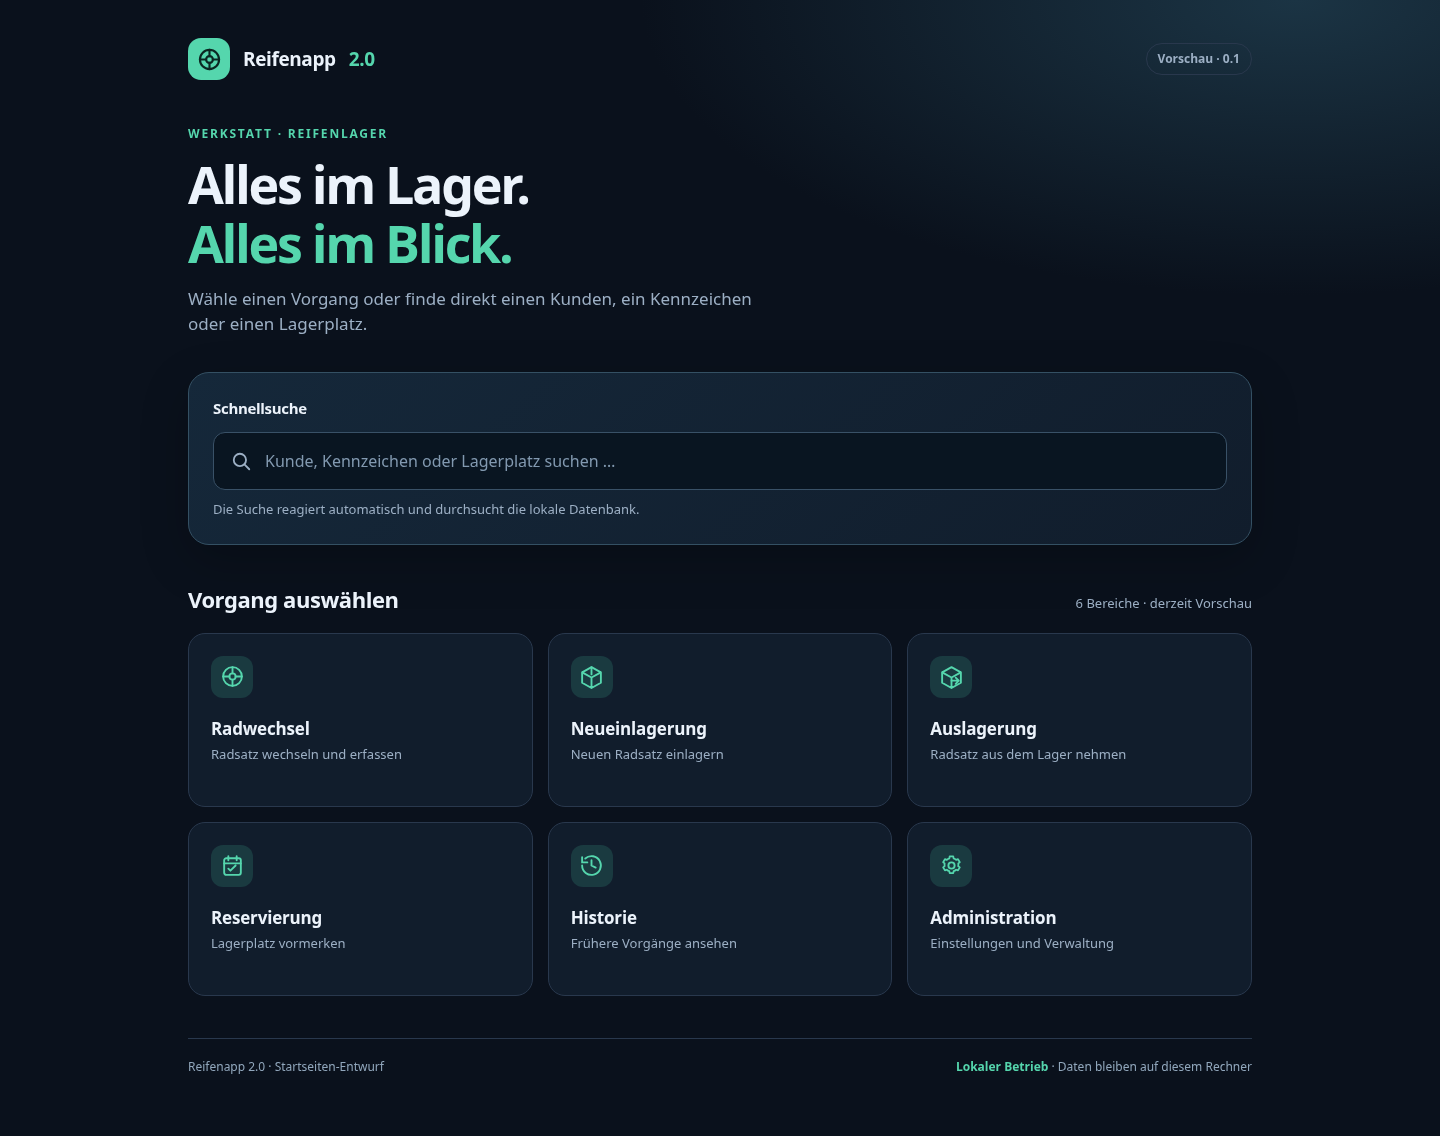
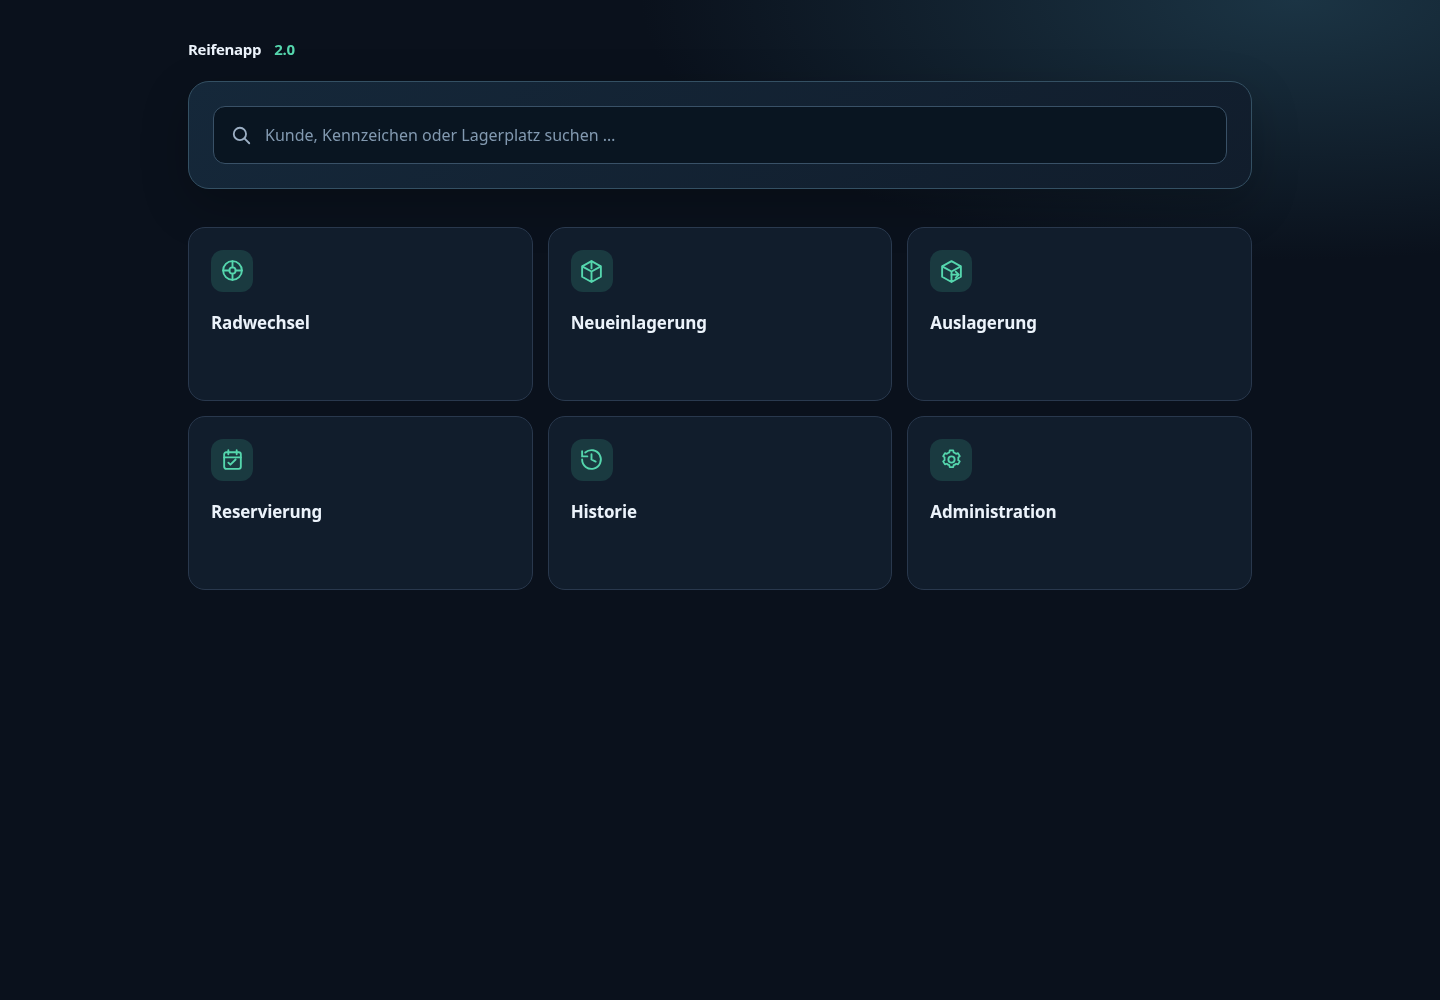
style: simplify homepage to branding search and actions

diff --git a/web/index.html b/web/index.html
@@ -7,7 +7,7 @@
   <title>Reifenapp 2.0 – Startseite</title>
   <style>
     :root{color-scheme:dark;--bg:#0a111c;--surface:#111d2c;--surface2:#17263a;--line:#29384d;--text:#ecf3fb;--muted:#9cafc4;--accent:#55d6ad;--accent2:#9ef1d2;--shadow:0 16px 48px rgba(0,0,0,.22)}
-    *{box-sizing:border-box}body{margin:0;background:radial-gradient(ellipse 70% 40% at 90% 0%,#1b3444 0%,transparent 65%),var(--bg);color:var(--text);font:16px/1.5 system-ui,-apple-system,BlinkMacSystemFont,"Segoe UI",sans-serif;min-height:100vh}button,input{font:inherit}button{cursor:pointer}button:focus-visible,input:focus-visible{outline:3px solid var(--accent);outline-offset:3px}main{max-width:1120px;margin:0 auto;padding:38px 28px 60px}.top{display:flex;align-items:center;justify-content:space-between;gap:20px;margin-bottom:45px}.brand{display:flex;align-items:center;gap:13px;font-weight:800;font-size:19px;letter-spacing:-.02em}.logo{width:42px;height:42px;border-radius:13px;background:var(--accent);display:grid;place-items:center;color:#0b2722}.version{font-size:12px;font-weight:700;padding:6px 11px;color:var(--muted);border:1px solid var(--line);border-radius:100px}.eyebrow{font-size:12px;font-weight:800;letter-spacing:.15em;text-transform:uppercase;color:var(--accent);margin:0 0 12px}h1{font-size:clamp(32px,5vw,52px);line-height:1.13;letter-spacing:-.045em;margin:0 0 13px}h1 span{color:var(--accent)}.intro{font-size:17px;color:var(--muted);margin:0 0 35px;max-width:590px}.search-panel{background:linear-gradient(140deg,#15283a,#111d2c);border:1px solid #345063;border-radius:21px;padding:24px;box-shadow:var(--shadow);margin-bottom:38px}.section-label{font-size:15px;font-weight:750;margin:0 0 13px}.searchbox{position:relative}.searchbox svg{position:absolute;left:17px;top:50%;transform:translateY(-50%);color:var(--muted);pointer-events:none}.searchbox input{width:100%;height:58px;background:#091521;border:1px solid #395167;border-radius:12px;color:var(--text);padding:0 18px 0 51px;outline:none}.searchbox input:focus{border-color:var(--accent);box-shadow:0 0 0 3px rgba(85,214,173,.12)}.searchbox input::placeholder{color:#8299b0}.hint{margin:10px 0 0;color:var(--muted);font-size:13px}.results{margin-top:18px;display:none}.results.active{display:block}.result-head{display:flex;justify-content:space-between;gap:15px;align-items:center;margin-bottom:10px;color:var(--muted);font-size:13px}.result-list{display:grid;gap:9px}.result{display:flex;align-items:center;justify-content:space-between;gap:12px;border:1px solid var(--line);border-radius:12px;background:#102033;padding:13px 15px}.result strong{font-size:15px}.result small{display:block;color:var(--muted);font-size:13px;margin-top:3px}.place{font-weight:800;white-space:nowrap;background:#1a413f;color:var(--accent2);padding:7px 11px;border-radius:9px}.empty{color:var(--muted);font-size:14px;margin:0}.heading-row{display:flex;align-items:baseline;justify-content:space-between;gap:14px;margin-bottom:17px}h2{font-size:22px;letter-spacing:-.02em;margin:0}.subtle{color:var(--muted);font-size:13px}.actions{display:grid;grid-template-columns:repeat(3,minmax(0,1fr));gap:15px}.action{display:flex;flex-direction:column;text-align:left;align-items:flex-start;min-height:174px;padding:22px;border-radius:17px;background:var(--surface);border:1px solid var(--line);color:var(--text);transition:transform .15s,border-color .15s,background .15s}.action:hover{background:var(--surface2);border-color:#57778d;transform:translateY(-2px)}.action .iconwrap{width:42px;height:42px;display:grid;place-items:center;border-radius:12px;background:#1a3a40;color:var(--accent);margin-bottom:18px}.action strong{font-size:17px;letter-spacing:-.01em}.action small{margin-top:4px;font-size:13px;color:var(--muted)}.footer{border-top:1px solid var(--line);margin-top:42px;padding-top:19px;display:flex;justify-content:space-between;gap:12px;color:#91a7bc;font-size:12px}.footer b{font-weight:600;color:var(--accent)}dialog{border:1px solid #40566a;border-radius:20px;background:#152439;color:var(--text);padding:28px;max-width:410px;width:calc(100% - 40px);box-shadow:0 35px 80px #0009}dialog::backdrop{background:#050a12bc}dialog h3{margin:0 0 10px;font-size:24px}dialog p{color:var(--muted);margin:0 0 23px}dialog button{border:0;border-radius:10px;background:var(--accent);color:#06251a;font-weight:800;padding:11px 20px}@media(max-width:800px){.actions{grid-template-columns:repeat(2,minmax(0,1fr))}}@media(max-width:520px){main{padding:24px 16px 36px}.top{margin-bottom:34px}.search-panel{padding:17px}.actions{gap:10px}.action{padding:16px;min-height:161px}.action strong{font-size:15px}.action small{font-size:12px}.heading-row{align-items:flex-start;flex-direction:column;gap:4px}.footer{flex-direction:column}}
+    *{box-sizing:border-box}body{margin:0;background:radial-gradient(ellipse 70% 40% at 90% 0%,#1b3444 0%,transparent 65%),var(--bg);color:var(--text);font:16px/1.5 system-ui,-apple-system,BlinkMacSystemFont,"Segoe UI",sans-serif;min-height:100vh}button,input{font:inherit}button{cursor:pointer}button:focus-visible,input:focus-visible{outline:3px solid var(--accent);outline-offset:3px}main{max-width:1120px;margin:0 auto;padding:38px 28px 60px}.top{display:flex;align-items:center;justify-content:space-between;gap:20px;margin-bottom:20px}.brand{display:flex;align-items:center;gap:13px;font-weight:700;font-size:15px;letter-spacing:-.02em}.search-panel{background:linear-gradient(140deg,#15283a,#111d2c);border:1px solid #345063;border-radius:21px;padding:24px;box-shadow:var(--shadow);margin-bottom:38px}.searchbox{position:relative}.searchbox svg{position:absolute;left:17px;top:50%;transform:translateY(-50%);color:var(--muted);pointer-events:none}.searchbox input{width:100%;height:58px;background:#091521;border:1px solid #395167;border-radius:12px;color:var(--text);padding:0 18px 0 51px;outline:none}.searchbox input:focus{border-color:var(--accent);box-shadow:0 0 0 3px rgba(85,214,173,.12)}.searchbox input::placeholder{color:#8299b0}.hint{margin:10px 0 0;color:var(--muted);font-size:13px}.results{margin-top:18px;display:none}.results.active{display:block}.result-head{display:flex;justify-content:space-between;gap:15px;align-items:center;margin-bottom:10px;color:var(--muted);font-size:13px}.result-list{display:grid;gap:9px}.result{display:flex;align-items:center;justify-content:space-between;gap:12px;border:1px solid var(--line);border-radius:12px;background:#102033;padding:13px 15px}.result strong{font-size:15px}.result small{display:block;color:var(--muted);font-size:13px;margin-top:3px}.place{font-weight:800;white-space:nowrap;background:#1a413f;color:var(--accent2);padding:7px 11px;border-radius:9px}.empty{color:var(--muted);font-size:14px;margin:0}h2{font-size:22px;letter-spacing:-.02em;margin:0}.actions{display:grid;grid-template-columns:repeat(3,minmax(0,1fr));gap:15px}.action{display:flex;flex-direction:column;text-align:left;align-items:flex-start;min-height:174px;padding:22px;border-radius:17px;background:var(--surface);border:1px solid var(--line);color:var(--text);transition:transform .15s,border-color .15s,background .15s}.action:hover{background:var(--surface2);border-color:#57778d;transform:translateY(-2px)}.action .iconwrap{width:42px;height:42px;display:grid;place-items:center;border-radius:12px;background:#1a3a40;color:var(--accent);margin-bottom:18px}.action strong{font-size:17px;letter-spacing:-.01em}dialog{border:1px solid #40566a;border-radius:20px;background:#152439;color:var(--text);padding:28px;max-width:410px;width:calc(100% - 40px);box-shadow:0 35px 80px #0009}dialog::backdrop{background:#050a12bc}dialog h3{margin:0 0 10px;font-size:24px}dialog p{color:var(--muted);margin:0 0 23px}dialog button{border:0;border-radius:10px;background:var(--accent);color:#06251a;font-weight:800;padding:11px 20px}@media(max-width:800px){.actions{grid-template-columns:repeat(2,minmax(0,1fr))}}@media(max-width:520px){main{padding:24px 16px 36px}.top{margin-bottom:20px}.search-panel{padding:17px}.actions{gap:10px}.action{padding:16px;min-height:161px}.action strong{font-size:15px}}
 
     .result.search-result{display:block;min-width:0}.result-summary{display:flex;align-items:flex-start;justify-content:space-between;gap:12px}.result-info{min-width:0;overflow-wrap:anywhere}.result-info a{display:inline-block;margin-top:6px;color:var(--accent);font-size:13px}.search-result .place{max-width:45%;white-space:normal;overflow-wrap:anywhere}.result-warnings{display:grid;gap:7px;margin-top:12px}.result-warning{display:flex;align-items:flex-start;gap:9px;margin:0;padding:9px 11px;border:1px solid #a7782f;border-radius:8px;background:#382b19;color:#ffcf7b;font-size:13px;overflow-wrap:anywhere;white-space:pre-wrap}.result-warning svg{flex:none;margin-top:1px}.result-warning span{min-width:0}.result-details{margin-top:12px;border-top:1px solid var(--line);padding-top:9px}.result-details summary{display:flex;align-items:center;justify-content:space-between;gap:12px;cursor:pointer;list-style:none;color:var(--accent);font-size:13px;font-weight:650}.result-details summary::-webkit-details-marker{display:none}.result-details summary:focus-visible{outline:2px solid var(--accent);outline-offset:4px;border-radius:3px}.result-chevron{display:inline-block;font-size:23px;line-height:1;transition:transform .15s}.result-details[open] .result-chevron{transform:rotate(180deg)}.result-data{display:grid;grid-template-columns:repeat(2,minmax(0,1fr));gap:12px 20px;margin:14px 0 0}.result-data>div{min-width:0}.result-data dt{color:var(--muted);font-size:12px}.result-data dd{margin:3px 0 0;font-size:13px;white-space:pre-wrap;overflow-wrap:anywhere}@media(max-width:520px){.result-data{grid-template-columns:1fr}}
   </style>
@@ -15,18 +15,16 @@
 </head>
 <body>
 <main>
-  <header class="top"><div class="brand"><div class="logo" aria-hidden="true"><svg viewBox="0 0 24 24" width="27" height="27" fill="none" stroke="currentColor" stroke-width="1.9" stroke-linecap="round"><circle cx="12" cy="12" r="8.5"/><circle cx="12" cy="12" r="3"/><path d="M12 3.5v5.5M20.5 12H15M12 20.5V15M3.5 12H9"/></svg></div>Reifenapp <span style="color:var(--accent)">2.0</span></div><div class="version">Vorschau · 0.1</div></header>
-  <section aria-labelledby="welcome"><p class="eyebrow">Werkstatt · Reifenlager</p><h1 id="welcome">Alles im Lager.<br><span>Alles im Blick.</span></h1><p class="intro">Wähle einen Vorgang oder finde direkt einen Kunden, ein Kennzeichen oder einen Lagerplatz.</p></section>
-  <section class="search-panel" aria-labelledby="search-title"><h2 class="section-label" id="search-title">Schnellsuche</h2><div class="searchbox"><svg width="22" height="22" viewBox="0 0 24 24" fill="none" stroke="currentColor" stroke-width="2" stroke-linecap="round" aria-hidden="true"><circle cx="10.8" cy="10.8" r="6.7"/><path d="m16 16 5 5"/></svg><input id="search" type="search" autocomplete="off" spellcheck="false" placeholder="Kunde, Kennzeichen oder Lagerplatz suchen …" aria-label="Kunde, Kennzeichen oder Lagerplatz suchen" aria-controls="results"></div><p class="hint">Die Suche reagiert automatisch und durchsucht die lokale Datenbank.</p><div id="results" class="results" aria-live="polite"><div class="result-head"><span id="count"></span><span>Neueste Aktivität zuerst</span></div><div id="result-list" class="result-list"></div></div></section>
-  <section aria-labelledby="action-title"><div class="heading-row"><h2 id="action-title">Vorgang auswählen</h2><span class="subtle">6 Bereiche · derzeit Vorschau</span></div><div class="actions">
-    <button class="action" data-title="Radwechsel"><span class="iconwrap"><svg width="25" height="25" viewBox="0 0 24 24" fill="none" stroke="currentColor" stroke-width="1.8" stroke-linecap="round"><circle cx="12" cy="12" r="9"/><circle cx="12" cy="12" r="3"/><path d="M12 3v6m9 3h-6m-3 9v-6m-9-3h6"/></svg></span><strong>Radwechsel</strong><small>Radsatz wechseln und erfassen</small></button>
-    <button class="action" data-title="Neueinlagerung"><span class="iconwrap"><svg width="25" height="25" viewBox="0 0 24 24" fill="none" stroke="currentColor" stroke-width="1.8" stroke-linecap="round" stroke-linejoin="round"><path d="m3 8 9-5 9 5v10l-9 5-9-5zM3 8l9 5 9-5M12 13v10"/><path d="M12 3v7"/></svg></span><strong>Neueinlagerung</strong><small>Neuen Radsatz einlagern</small></button>
-    <button class="action" data-title="Auslagerung"><span class="iconwrap"><svg width="25" height="25" viewBox="0 0 24 24" fill="none" stroke="currentColor" stroke-width="1.8" stroke-linecap="round" stroke-linejoin="round"><path d="M3 8 12 3l9 5v10l-9 5-9-5V8m0 0 9 5 9-5M12 13v10"/><path d="m16 13 3 3-3 3m3-3h-7"/></svg></span><strong>Auslagerung</strong><small>Radsatz aus dem Lager nehmen</small></button>
-    <button class="action" data-title="Reservierung"><span class="iconwrap"><svg width="25" height="25" viewBox="0 0 24 24" fill="none" stroke="currentColor" stroke-width="1.8" stroke-linecap="round" stroke-linejoin="round"><rect x="4" y="5" width="16" height="16" rx="2"/><path d="M8 3v4m8-4v4M4 10h16m-12 5 2 2 5-5"/></svg></span><strong>Reservierung</strong><small>Lagerplatz vormerken</small></button>
-    <button class="action" data-title="Historie"><span class="iconwrap"><svg width="25" height="25" viewBox="0 0 24 24" fill="none" stroke="currentColor" stroke-width="1.8" stroke-linecap="round"><path d="M3 12a9 9 0 1 0 3-6.7M3 4v5h5M12 7v5l4 2"/></svg></span><strong>Historie</strong><small>Frühere Vorgänge ansehen</small></button>
-    <button class="action" data-title="Administration"><span class="iconwrap"><svg width="25" height="25" viewBox="0 0 24 24" fill="none" stroke="currentColor" stroke-width="1.8" stroke-linecap="round" stroke-linejoin="round"><circle cx="12" cy="12" r="3"/><path d="m19.4 15 .1.1 1.5 1.2-1.8 3.1-1.9-.7a8 8 0 0 1-2.5 1.4l-.4 2h-3.6l-.4-2a8 8 0 0 1-2.5-1.4l-1.9.7-1.8-3.1 1.5-1.2a8 8 0 0 1 0-2.8l-1.5-1.2L6 8l1.9.7a8 8 0 0 1 2.5-1.4l.4-2h3.6l.4 2a8 8 0 0 1 2.5 1.4l1.9-.7 1.8 3.1-1.5 1.2a8 8 0 0 1-.1 2.7" transform="translate(0 -1.7) scale(.95)"/></svg></span><strong>Administration</strong><small>Einstellungen und Verwaltung</small></button>
+  <header class="top"><span class="brand">Reifenapp <span style="color:var(--accent)">2.0</span></span></header>
+  <section class="search-panel" aria-label="Schnellsuche"><div class="searchbox"><svg width="22" height="22" viewBox="0 0 24 24" fill="none" stroke="currentColor" stroke-width="2" stroke-linecap="round" aria-hidden="true"><circle cx="10.8" cy="10.8" r="6.7"/><path d="m16 16 5 5"/></svg><input id="search" type="search" autocomplete="off" spellcheck="false" placeholder="Kunde, Kennzeichen oder Lagerplatz suchen …" aria-label="Kunde, Kennzeichen oder Lagerplatz suchen" aria-controls="results"></div><div id="results" class="results" aria-live="polite"><div class="result-head"><span id="count"></span></div><div id="result-list" class="result-list"></div></div></section>
+  <section aria-label="Vorgänge"><div class="actions">
+    <button class="action" data-title="Radwechsel"><span class="iconwrap"><svg width="25" height="25" viewBox="0 0 24 24" fill="none" stroke="currentColor" stroke-width="1.8" stroke-linecap="round"><circle cx="12" cy="12" r="9"/><circle cx="12" cy="12" r="3"/><path d="M12 3v6m9 3h-6m-3 9v-6m-9-3h6"/></svg></span><strong>Radwechsel</strong></button>
+    <button class="action" data-title="Neueinlagerung"><span class="iconwrap"><svg width="25" height="25" viewBox="0 0 24 24" fill="none" stroke="currentColor" stroke-width="1.8" stroke-linecap="round" stroke-linejoin="round"><path d="m3 8 9-5 9 5v10l-9 5-9-5zM3 8l9 5 9-5M12 13v10"/><path d="M12 3v7"/></svg></span><strong>Neueinlagerung</strong></button>
+    <button class="action" data-title="Auslagerung"><span class="iconwrap"><svg width="25" height="25" viewBox="0 0 24 24" fill="none" stroke="currentColor" stroke-width="1.8" stroke-linecap="round" stroke-linejoin="round"><path d="M3 8 12 3l9 5v10l-9 5-9-5V8m0 0 9 5 9-5M12 13v10"/><path d="m16 13 3 3-3 3m3-3h-7"/></svg></span><strong>Auslagerung</strong></button>
+    <button class="action" data-title="Reservierung"><span class="iconwrap"><svg width="25" height="25" viewBox="0 0 24 24" fill="none" stroke="currentColor" stroke-width="1.8" stroke-linecap="round" stroke-linejoin="round"><rect x="4" y="5" width="16" height="16" rx="2"/><path d="M8 3v4m8-4v4M4 10h16m-12 5 2 2 5-5"/></svg></span><strong>Reservierung</strong></button>
+    <button class="action" data-title="Historie"><span class="iconwrap"><svg width="25" height="25" viewBox="0 0 24 24" fill="none" stroke="currentColor" stroke-width="1.8" stroke-linecap="round"><path d="M3 12a9 9 0 1 0 3-6.7M3 4v5h5M12 7v5l4 2"/></svg></span><strong>Historie</strong></button>
+    <button class="action" data-title="Administration"><span class="iconwrap"><svg width="25" height="25" viewBox="0 0 24 24" fill="none" stroke="currentColor" stroke-width="1.8" stroke-linecap="round" stroke-linejoin="round"><circle cx="12" cy="12" r="3"/><path d="m19.4 15 .1.1 1.5 1.2-1.8 3.1-1.9-.7a8 8 0 0 1-2.5 1.4l-.4 2h-3.6l-.4-2a8 8 0 0 1-2.5-1.4l-1.9.7-1.8-3.1 1.5-1.2a8 8 0 0 1 0-2.8l-1.5-1.2L6 8l1.9.7a8 8 0 0 1 2.5-1.4l.4-2h3.6l.4 2a8 8 0 0 1 2.5 1.4l1.9-.7 1.8 3.1-1.5 1.2a8 8 0 0 1-.1 2.7" transform="translate(0 -1.7) scale(.95)"/></svg></span><strong>Administration</strong></button>
   </div></section>
-  <footer class="footer"><span>Reifenapp 2.0 · Startseiten-Entwurf</span><span><b>Lokaler Betrieb</b> · Daten bleiben auf diesem Rechner</span></footer>
 </main>
 <dialog id="placeholder"><h3 id="modal-title"></h3><p>Dieser Bereich ist in Version 0.1 noch nicht implementiert. Die Schaltfläche dient zunächst als Platzhalter.</p><button id="close-modal">Verstanden</button></dialog>
 <p id="storage-confirmation" role="status" hidden></p>
